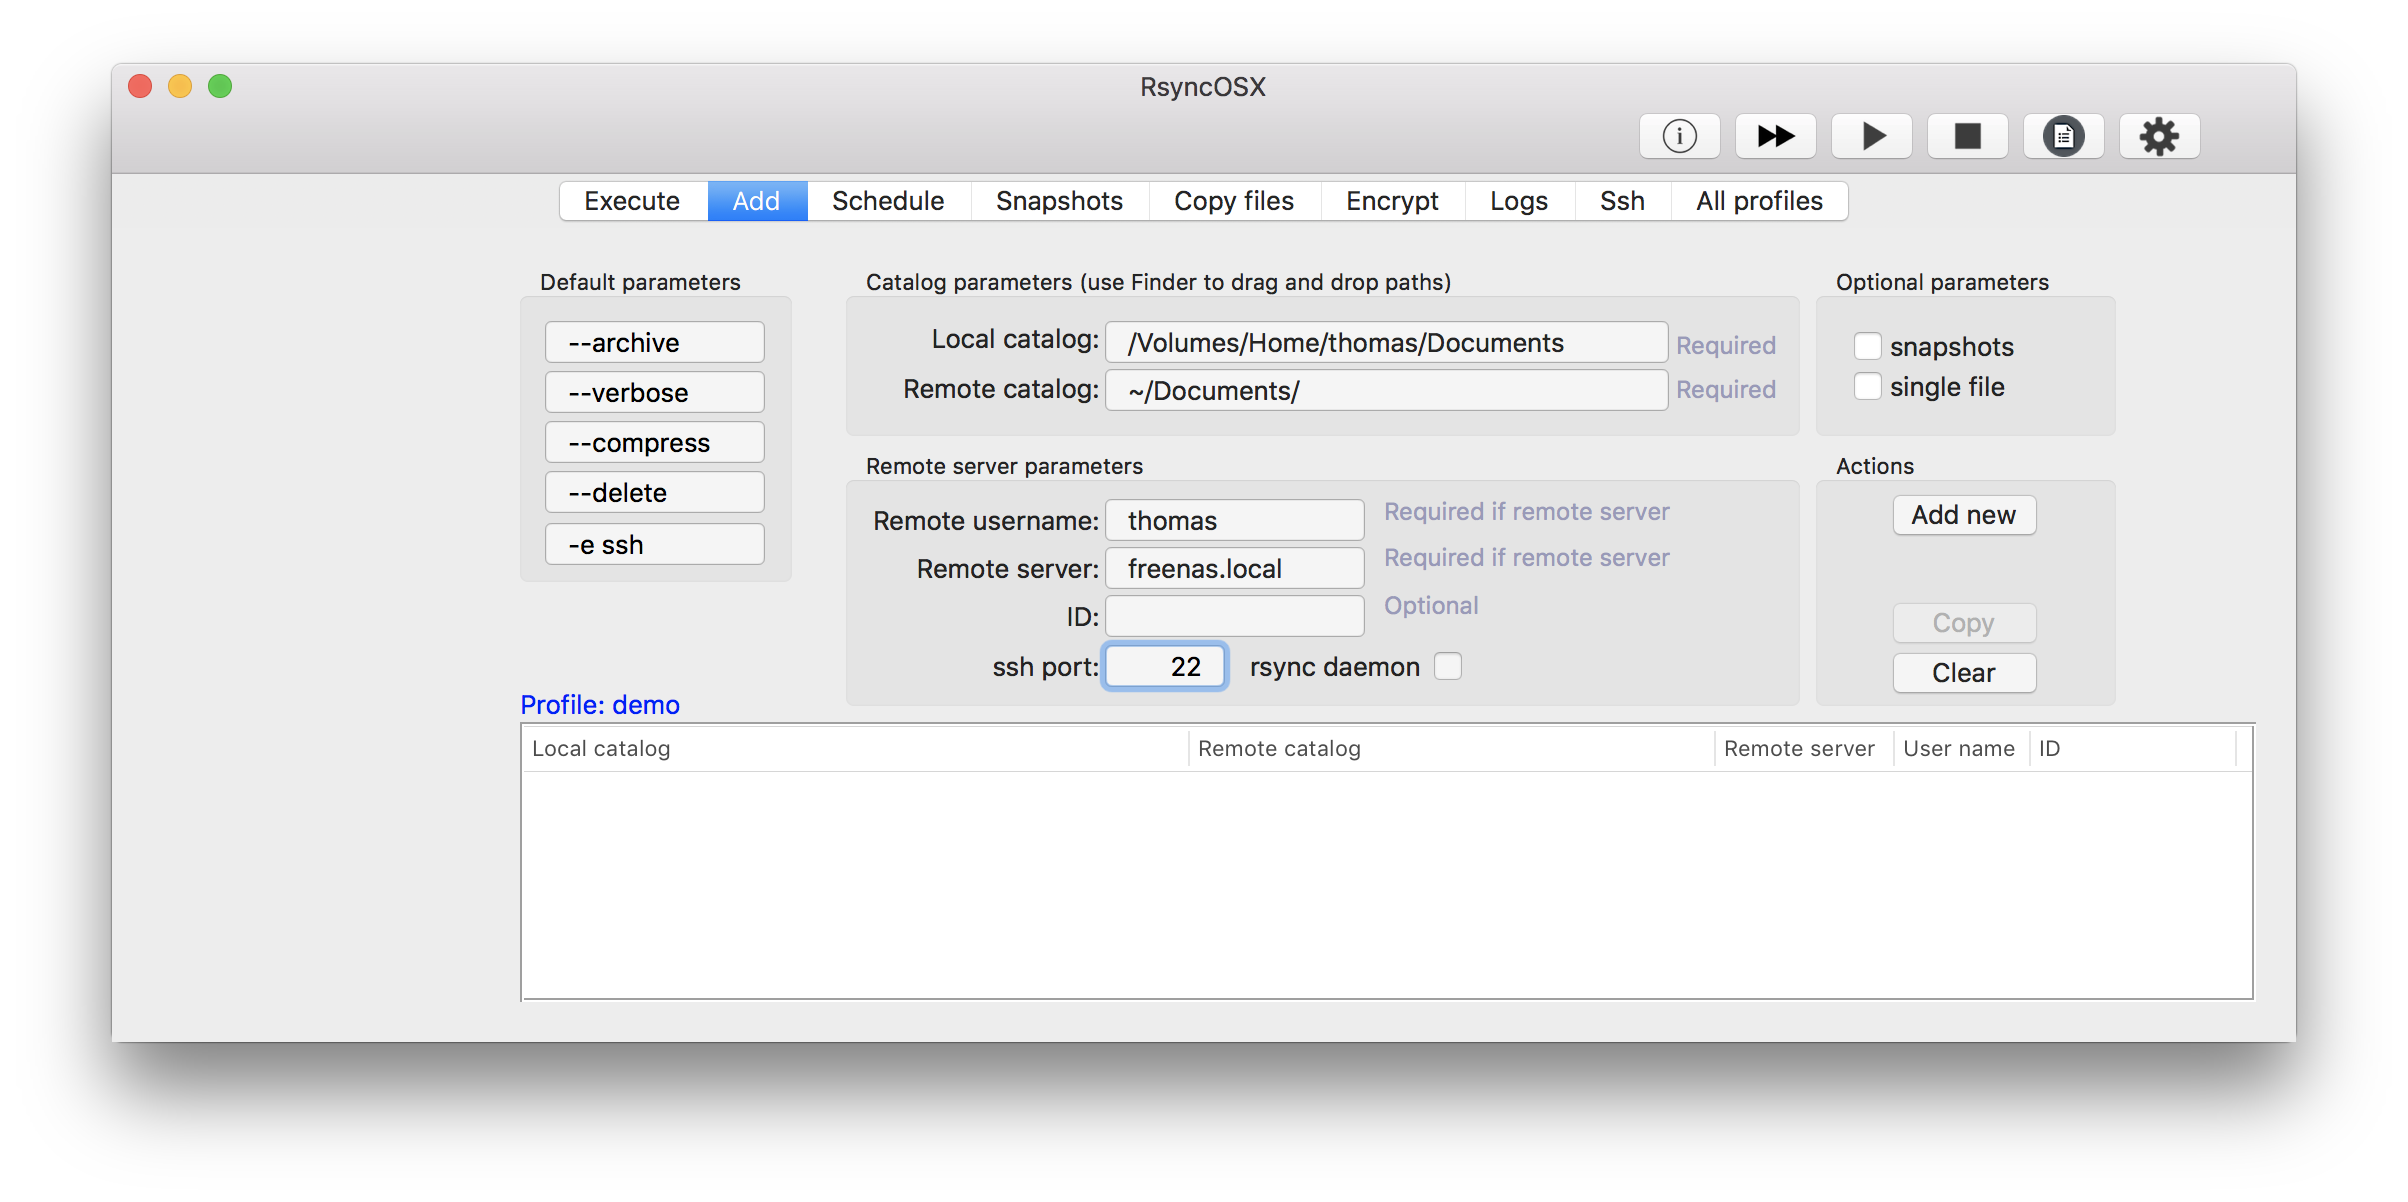
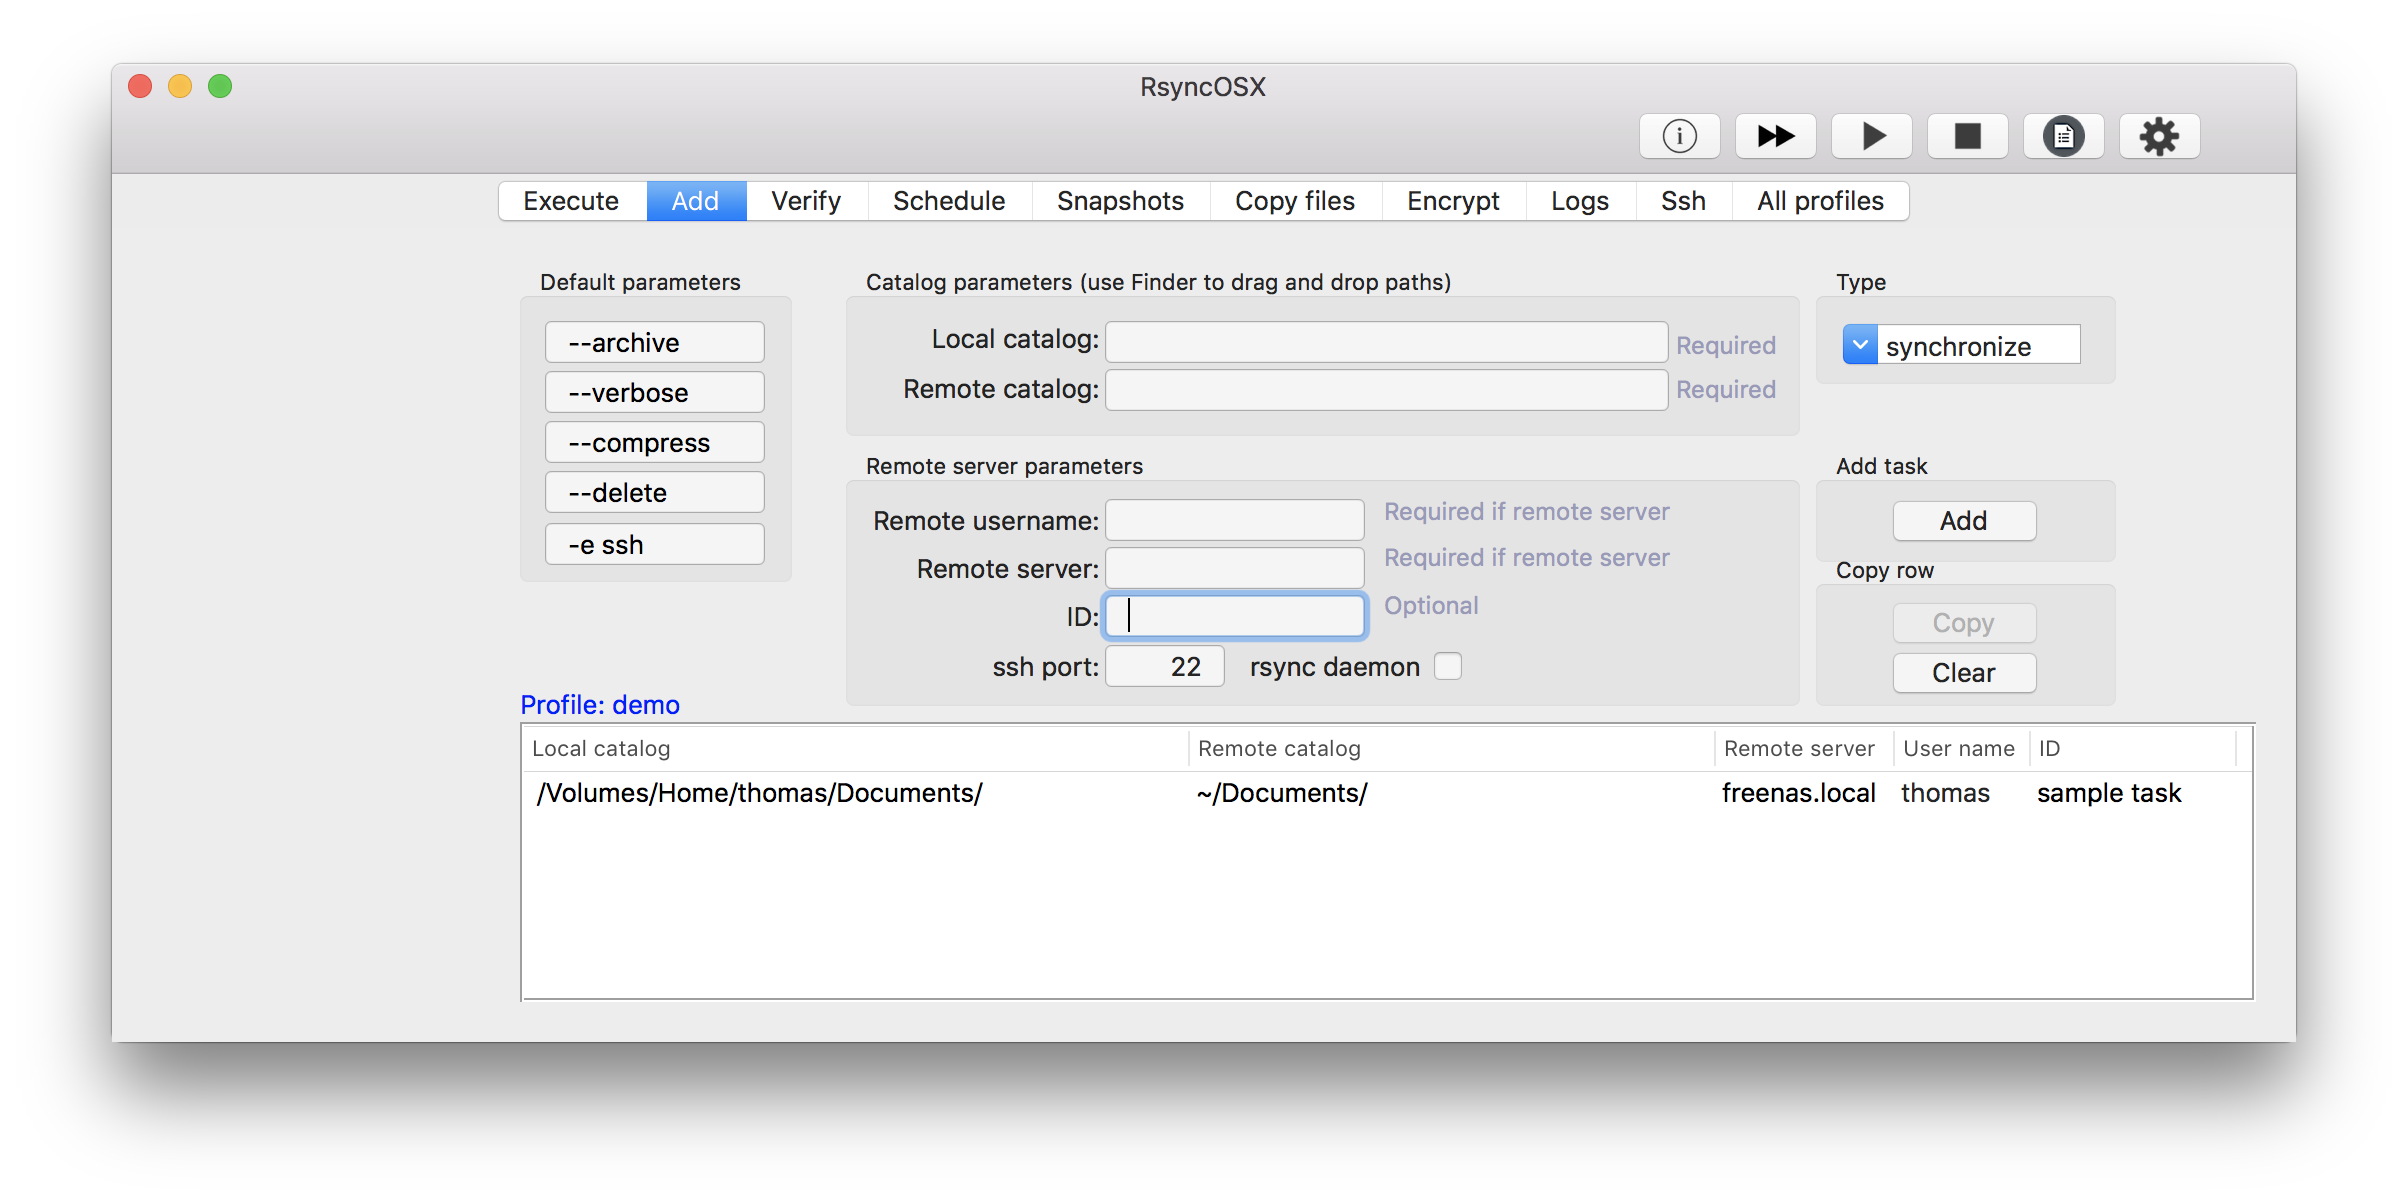
Update

diff --git a/_posts/2018-04-10-AddConfigurations.md b/_posts/2018-04-10-AddConfigurations.md
@@ -7,12 +7,13 @@ Adding configurations is easy. A configuration require minimum **Local catalog**
 
 Select **Local catalog** either by *drag and drop* or by *enter text* directly. For **Remote catalogs** only drag and drop for local volumes. For remote server catalogs enter by text only.
 
-If **Single file** is *on*, RsyncOSX adds backup of single file only. Use Copy files for search and restore.
+There are three types of tasks, `synchronize` which is standard, `snapshots` and `single file`. For [snapshots](/Snapshots) see documentation.  If `single file` is selected no trailing character `/` is added. For both synchronize and snapshots task trailing character `/` is added.
+
 ![Execute view](/images/RsyncOSX/master/add/add1.png)
 
 ### Local and remote catalogs
 
-Local catalog and Remote catalog (if not on remote server) is added either by using *drag and drop* from filemanager or *by text* only. If enter by text please remember to add the full path. Remote catalogs is entered either by full paths or use the `~` character to expand remote user home catalog. See sample configuration below.
+Local catalog and Remote catalog are added either by using *drag and drop* from filemanager or *by text* only. If enter by text please remember to add the full path. Remote catalogs is entered either by full paths or use the `~` character to expand remote user home catalog. See sample configuration below.
 
 ### Sample configuration
 
@@ -22,18 +23,26 @@ The screen below is all information about my configuration for a virtual FreeBSD
 - **Remote catalog**: `~/Documents/` - the backup catalog for user thomas. The `~` is expanded as the home catalog with full path by the remote operating system. The remote catalog might also be added by full path, depends where the backup catalog is placed on remote server.
 - **Remote username**: `thomas`, username remote server
 - **Remote server**: `freenas.local` either name or IP-adress
-- **ssh port**: if ssh communicates through other than standard `port 22` it must be set here
-- **ID**: `informal tag` for the configuration
+- **ssh port**: if ssh communicates through other than standard `port` it must be set here, port 22 is default port for ssh
+- **ID**: `informal` tag for the configuration
 - **rsync daemon**: setting this puts a double colon `::` in address parameter to rsync. It forces rsync to use the rsync daemon remote which takes some more setup. I am not using it myself.
-![Add configuration](/images/RsyncOSX/master/add/add3.png)
+- **Type**: There are three types of tasks, `synchronize` which is standard, `snapshots` and `single file`.
 
-**Caution:** utilizing remote servers as backup destinations require to setup [passwordless logins](/ssh) by ssh-keys.
+![Execute view](/images/RsyncOSX/master/add/add2.png)
+
+About remote servers.
+
+```
+Utilizing remote servers as backup destinations
+require to setup passwordless logins by ssh-keys.
+```
+See [passwordless logins](/ssh).
+
 
 ### The Add button
 
-Select the `Add new` button when completed and configuration is added to RsyncOSX. RsyncOSX adds a trailing `/` character to both local and remote volume (if the `Single file` is not on). After selecting the Add button another configuration might be added. Any changes (edit or delete) to configurations are done from the Execute view (Execute tab).
+Select the `Add new` button when completed and configuration is added to RsyncOSX. RsyncOSX adds a trailing `/` character to both local and remote volume. After selecting the Add button another configuration might be added. Any changes (edit or delete) to configurations are done from the Execute view.
 
-If `Single file` is ticked on no trailing character `/` is added.
 ![Configurations added](/images/RsyncOSX/master/add/add4.png)
-Go back to Execute tab and there are a new row. Additional parameters to rsync might be added utilizing the `Params` button.
-![Backup and restore](/images/RsyncOSX/master/add/add5.png)
+
+Additional parameters to rsync might be added utilizing the `Params` button.
